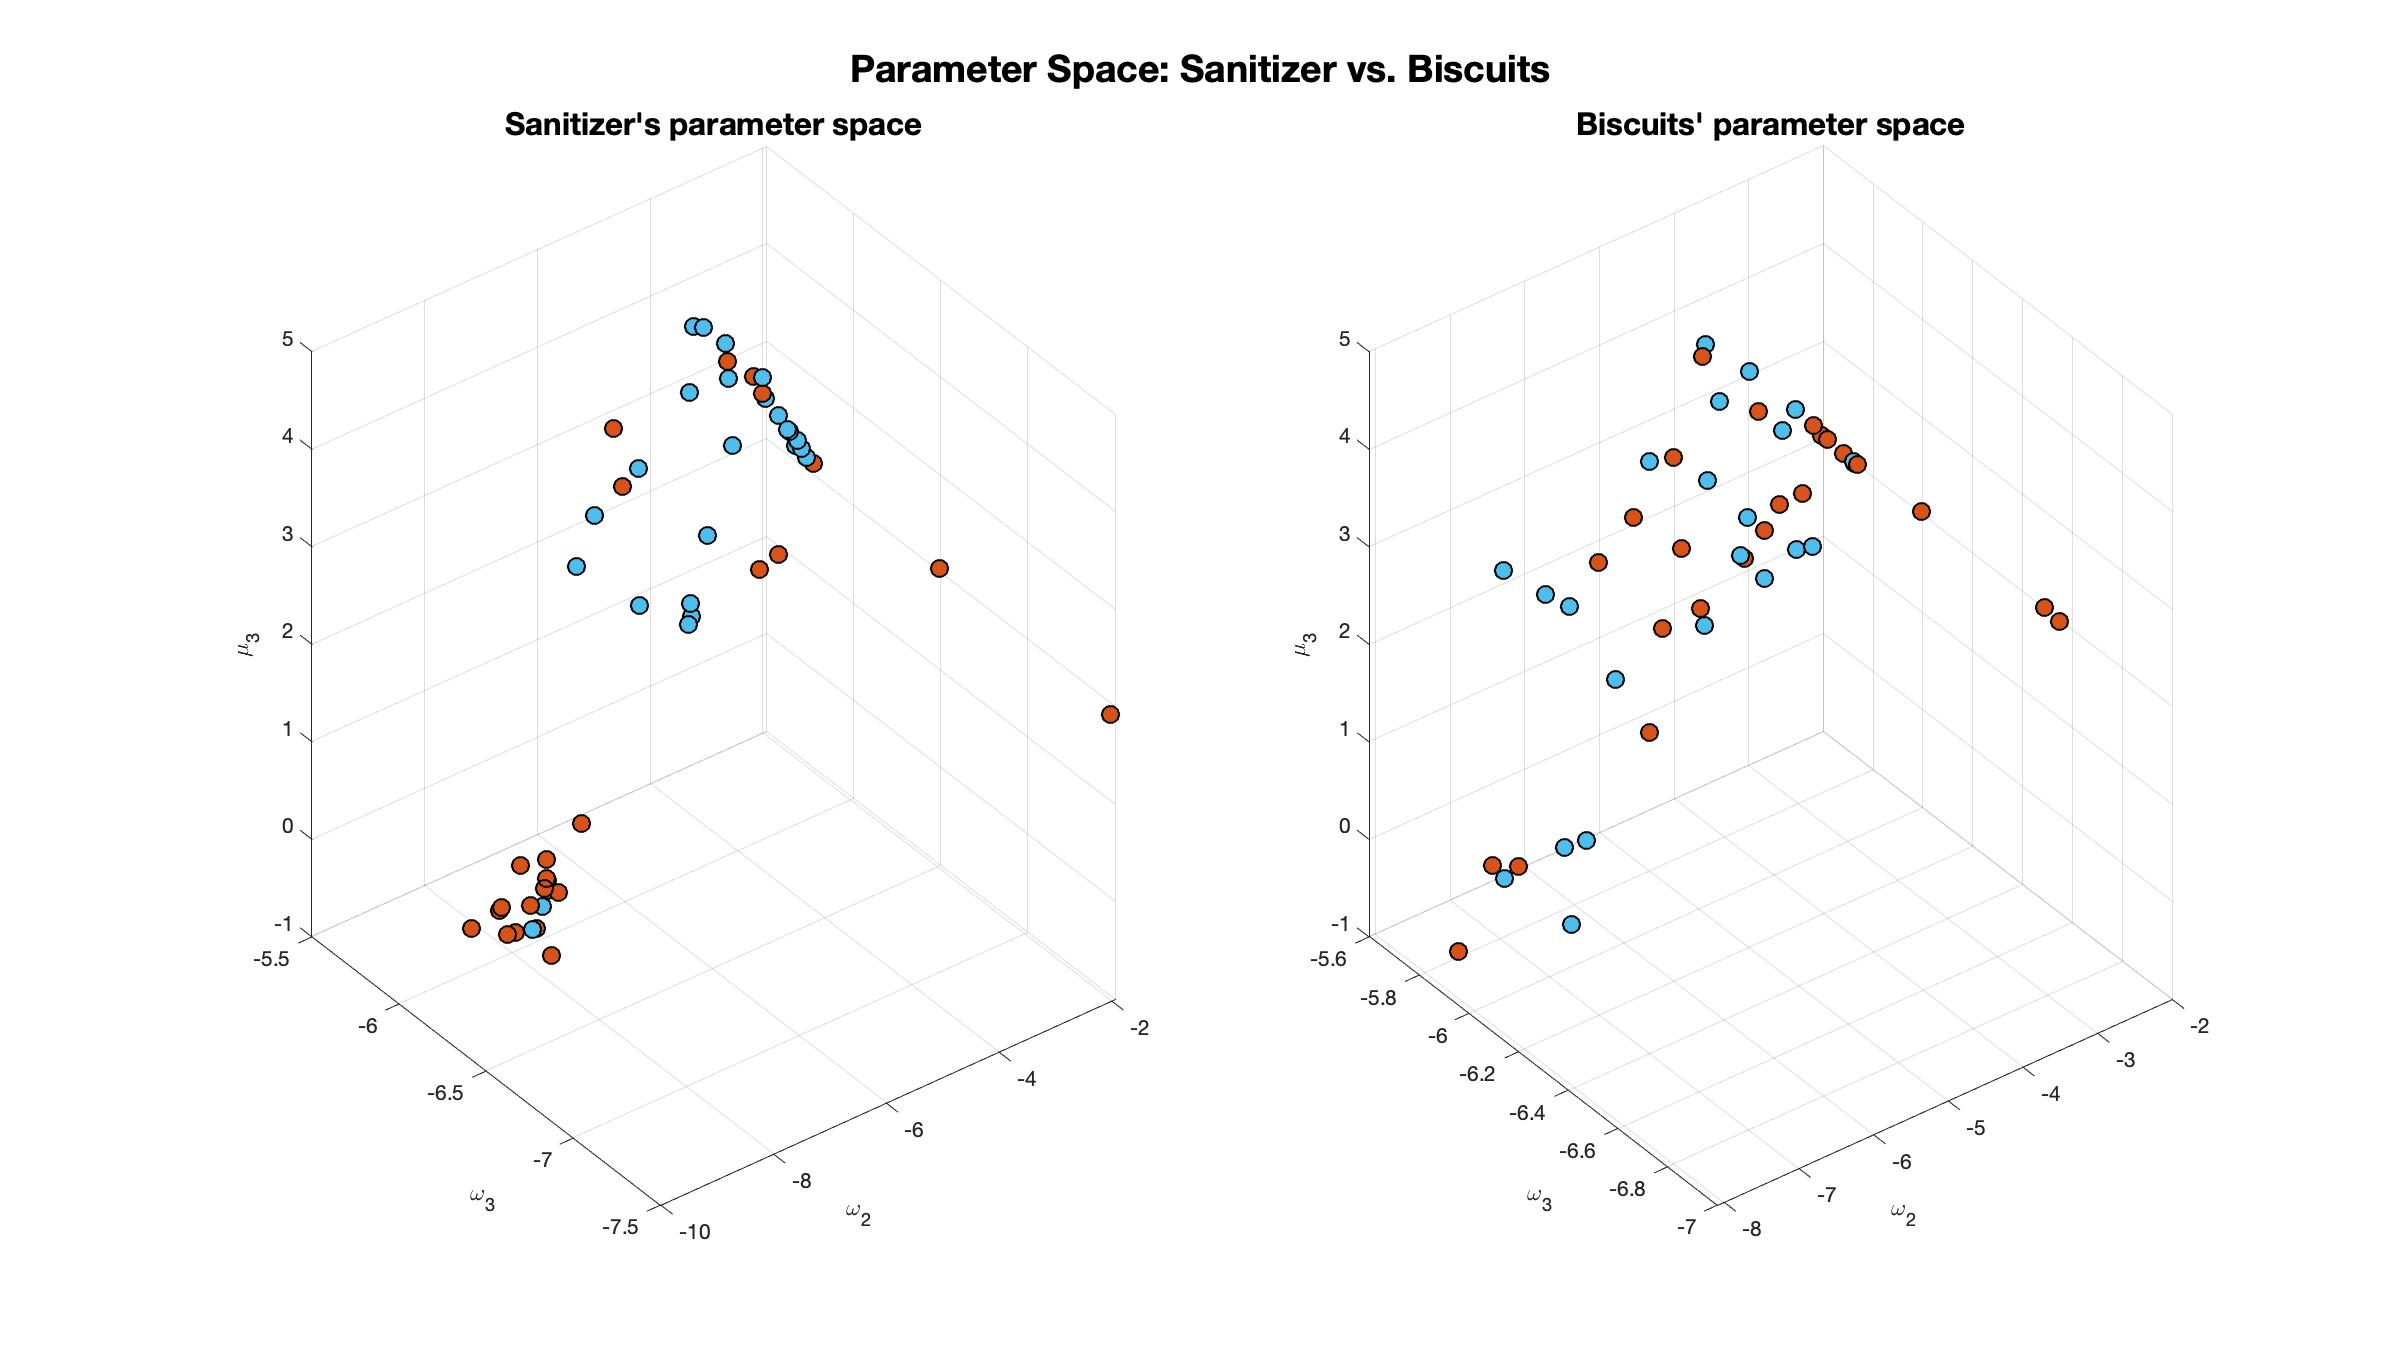
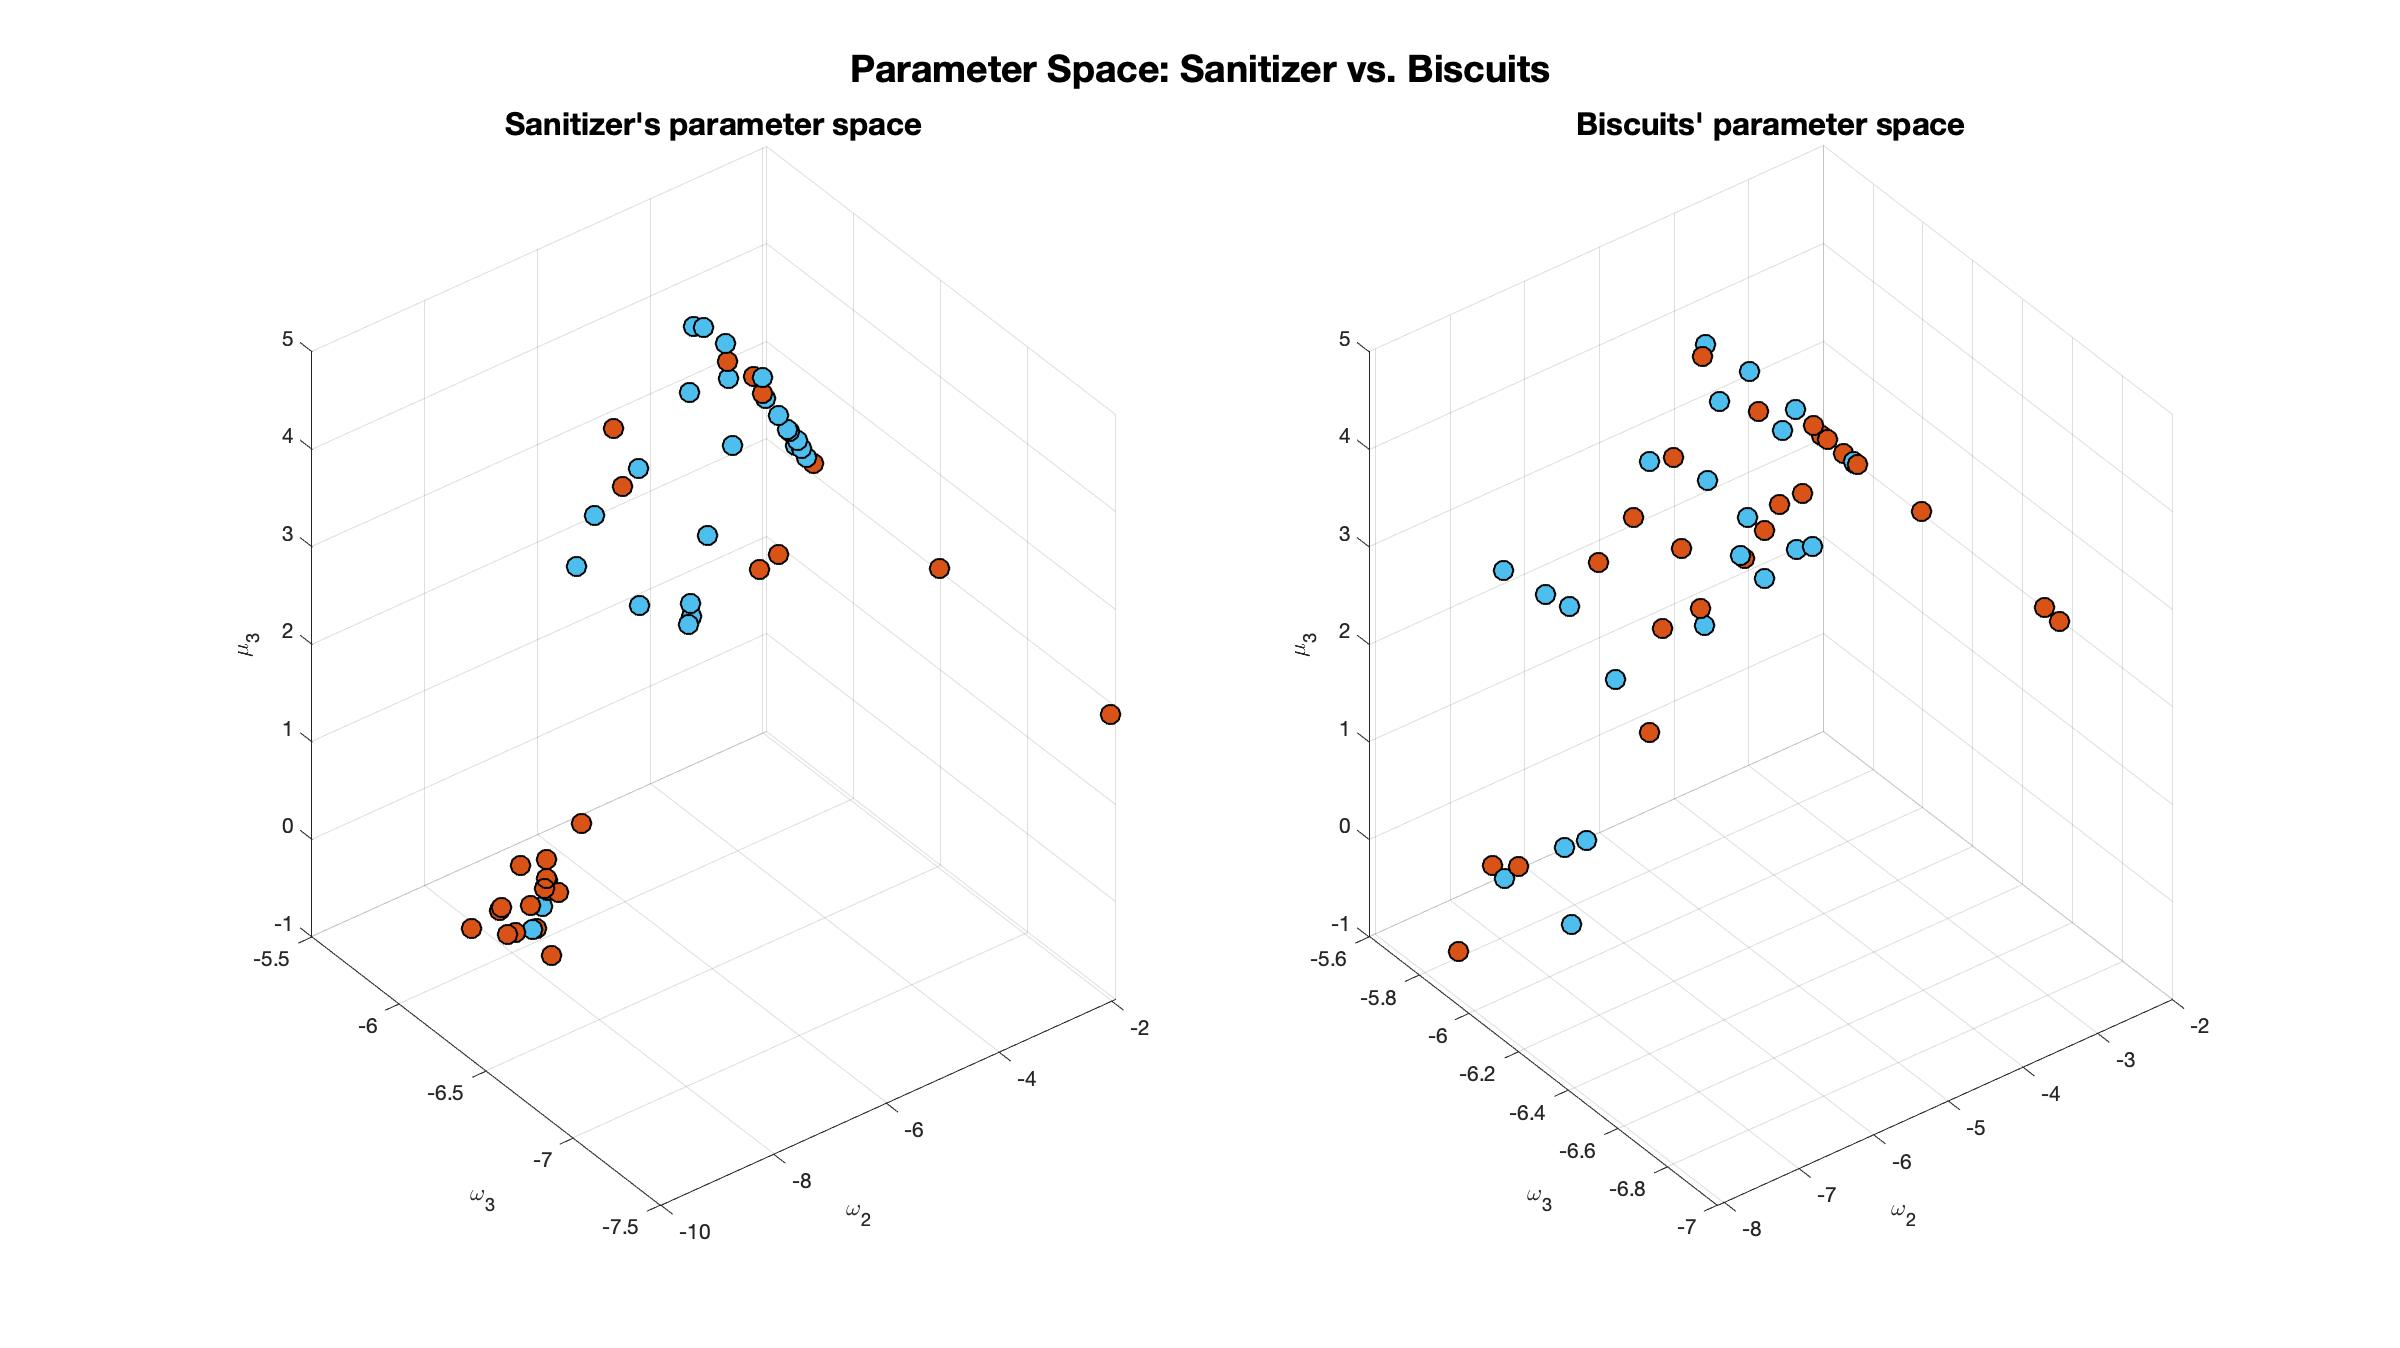
new plot

diff --git a/matlab/postprocessing.m b/matlab/postprocessing.m
@@ -117,11 +117,9 @@ sim_healty = tapas_simModel(inputs.cues,...
 tapas_hgf_binary_plotTraj(sim_ideal)
 sgtitle('ideal')
 tapas_hgf_binary_plotTraj(sim_anxious)
-sgtitle('virus_anxious')
+sgtitle('virus anxious')
 tapas_hgf_binary_plotTraj(sim_healty)
-sgtitle('virus_healthy') 
+sgtitle('virus healthy') 
 
 %% Plots
 plot_all;
-%%
-sum(anxiety_vector)

diff --git a/matlab/plot_all.m b/matlab/plot_all.m
@@ -7,8 +7,8 @@ RED = [0.85, 0.325, 0.098];
 BLUE = [0.301, 0.745, 0.933];
 GREEN = [0,0.5,0];
 
-C_SIZE = 120;
-SIZE = 70;
+C_SIZE = 150;
+SIZE = 90;
 
 %% K-Means Score based on ground truth
 fig0 = figure('Name','score');
